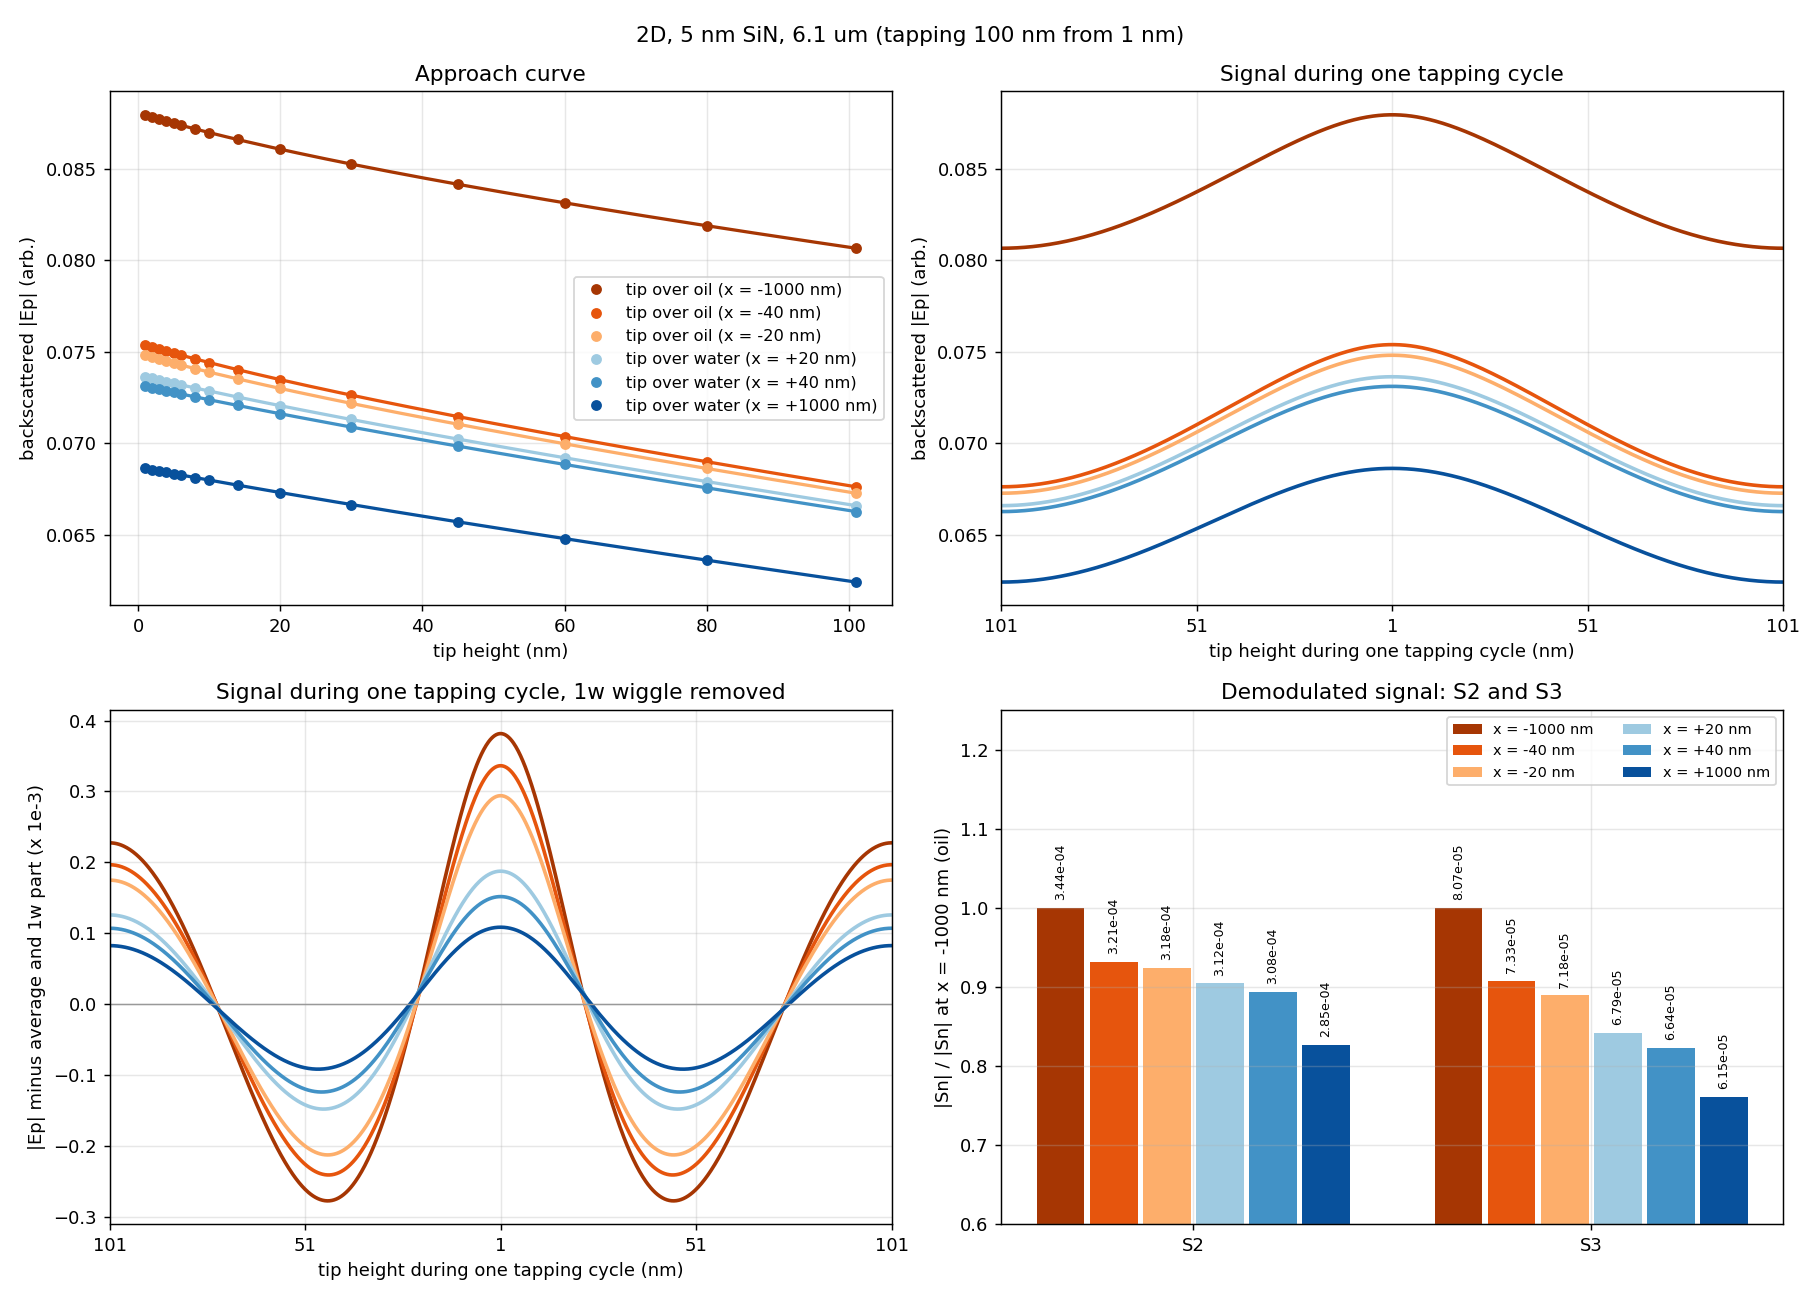
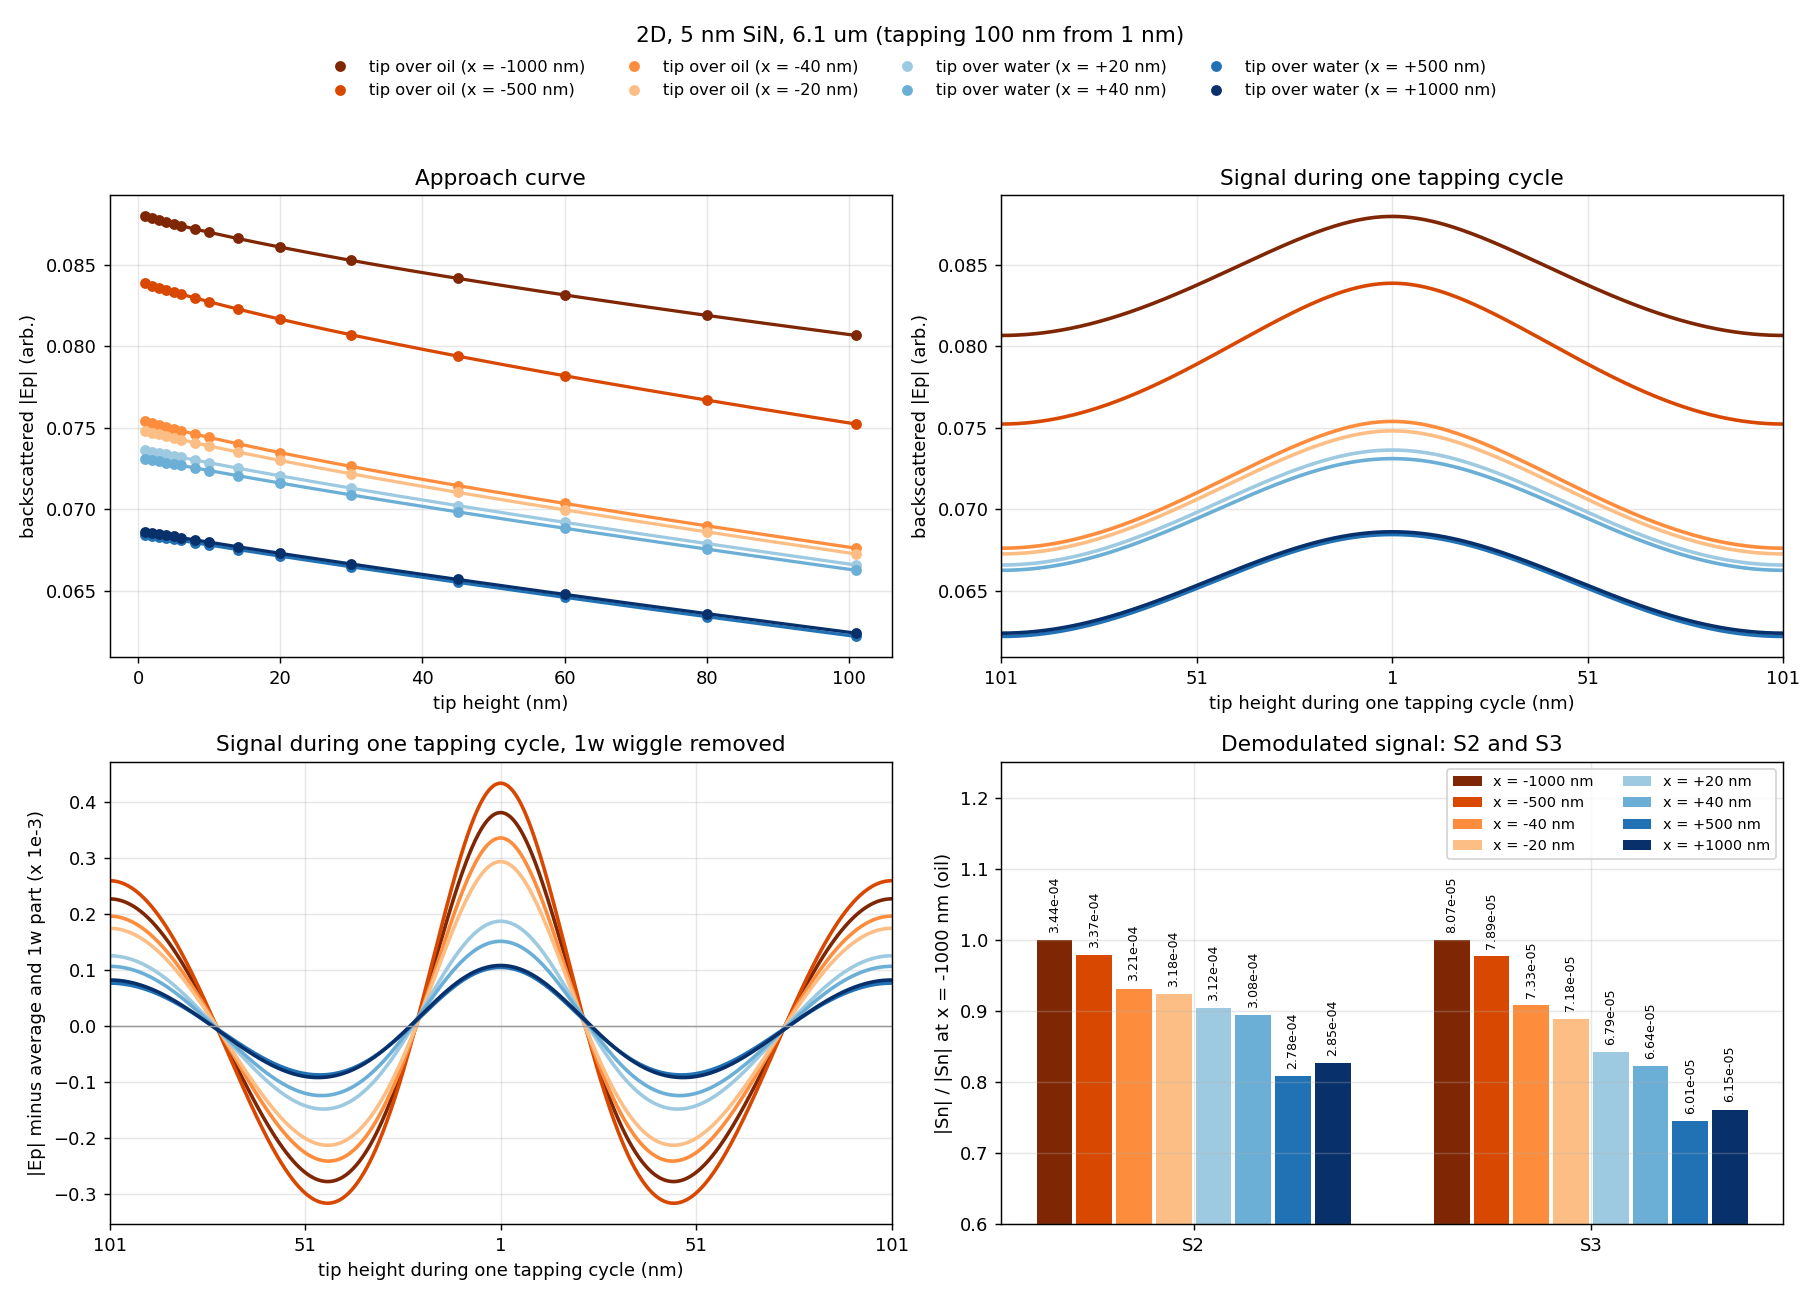
2D: approach/tapping figures with +-500 nm, legend under the title

diff --git a/Interface_LineScan_2D/plot_2d.py b/Interface_LineScan_2D/plot_2d.py
@@ -735,8 +735,9 @@ if __name__ == '__main__' and len(sys.argv) > 1 and sys.argv[1] == 'explain':
         plot_demod_explained(_x, SET)
 
 
-def plot_approach_and_tapping(xs=((-1000.0, 'oil', '#a63603'), (-40.0, 'oil', '#e6550d'), (-20.0, 'oil', '#fdae6b'),
-                                  (20.0, 'water', '#9ecae1'), (40.0, 'water', '#4292c6'), (1000.0, 'water', '#08519c')),
+def plot_approach_and_tapping(xs=((-1000.0, 'oil', '#7f2704'), (-500.0, 'oil', '#d94801'), (-40.0, 'oil', '#fd8d3c'),
+                                  (-20.0, 'oil', '#fdbe85'), (20.0, 'water', '#9ecae1'), (40.0, 'water', '#6baed6'),
+                                  (500.0, 'water', '#2171b5'), (1000.0, 'water', '#08306b')),
                               set_name='sin5', norm=False):
     """
     norm=True: every curve divided by its own |Ep| at the top of the tap (101 nm) -> *_norm.png.
@@ -792,10 +793,11 @@ def plot_approach_and_tapping(xs=((-1000.0, 'oil', '#a63603'), (-40.0, 'oil', '#
     ax[3].set(ylabel='|Sn| / |Sn| at x = -1000 nm (oil)', title='Demodulated signal: S2 and S3')
     for a in ax:
         a.grid(alpha=0.3)
-    ax[0].legend(fontsize=9)                    # same colours in all panels: one legend
     ax[3].legend(fontsize=8, loc='upper right', ncol=2)
     fig.suptitle(f'2D, {SETS[set_name][2]} (tapping {TAP_AMPLITUDE} nm from {MIN_GAP} nm)')
-    fig.tight_layout()
+    h, l = ax[0].get_legend_handles_labels()           # same colours in all panels: one legend under the title
+    fig.legend(h, l, loc='upper center', ncol=4, fontsize=9, bbox_to_anchor=(0.5, 0.965), frameon=False)
+    fig.tight_layout(rect=(0, 0, 1, 0.92))
     out = os.path.join(FIGS, 'approach_and_tapping' + ('_norm' if norm else '') + '.png')
     fig.savefig(out, dpi=130)
     print('wrote', out)
